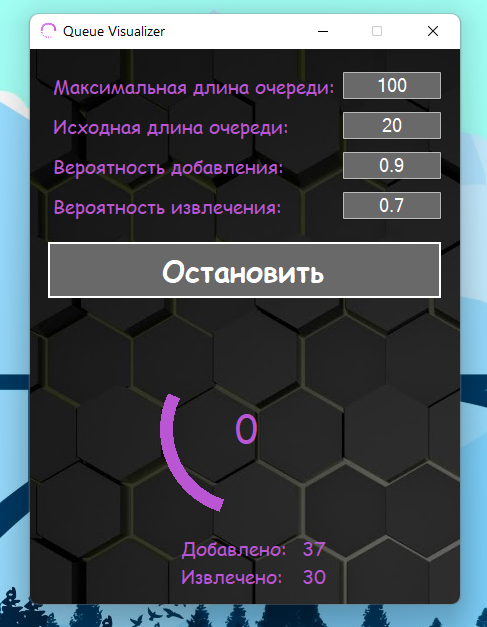
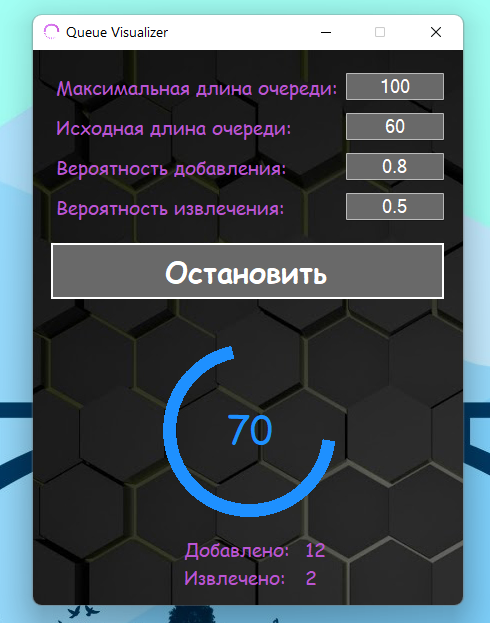
README.md screenshot update

diff --git a/mp2-lab4-queue-form/QueueForm.h b/mp2-lab4-queue-form/QueueForm.h
@@ -321,6 +321,7 @@ namespace mp2lab4queueform {
 			this->labelQueueSize->Text = L"0";
 			this->labelQueueSize->TextAlign = System::Drawing::ContentAlignment::MiddleCenter;
 			this->labelQueueSize->Visible = false;
+			this->labelQueueSize->Click += gcnew System::EventHandler(this, &QueueForm::labelQueueSize_Click);
 			// 
 			// QueueForm
 			// 
@@ -461,7 +462,7 @@ namespace mp2lab4queueform {
 			for (int i = 0; i < QueueStartSize; i++)
 				queue.Push(1);
 
-
+			timer_Tick(nullptr, nullptr);
 			timer->Start();
 		}
 
@@ -476,6 +477,7 @@ namespace mp2lab4queueform {
 			pbBackground->Invalidate();
 
 			labelQueueSize->Visible = false;
+			labelQueueSize->Text = "0";
 			label5->Visible = false;
 			label6->Visible = false;
 			labelPushed->Visible = false;
@@ -607,6 +609,7 @@ namespace mp2lab4queueform {
 
 			labelPushed->Text = msclr::interop::marshal_as<String^>(std::to_string(pushStat));
 			labelPopped->Text = msclr::interop::marshal_as<String^>(std::to_string(popStat));
+			labelQueueSize->Text = msclr::interop::marshal_as<String^>(std::to_string(queue.GetCount()));
 
 			angleStart = 360.0f * ((float) queue.GetHead() / (float) queue.GetMaxSize());
 			angleFinish = 360.0f * ((float) queue.GetCount() / (float) queue.GetMaxSize());
@@ -623,6 +626,21 @@ namespace mp2lab4queueform {
 			ColoredPen->Width = 13.0F;
 
 			gr->DrawArc(ColoredPen, 136, 300, 160, 160, angleStart, angleFinish);
+		}
+		Void labelQueueSize_Click(Object^ sender, EventArgs^ e)
+		{
+			if (timer->Interval == 400)
+			{
+				timer->Interval = 200;
+			}
+			else if (timer->Interval == 200)
+			{
+				timer->Interval = 50;
+			}
+			else if (timer->Interval == 50)
+			{
+				timer->Interval = 400;
+			}
 		}
 };
 }
